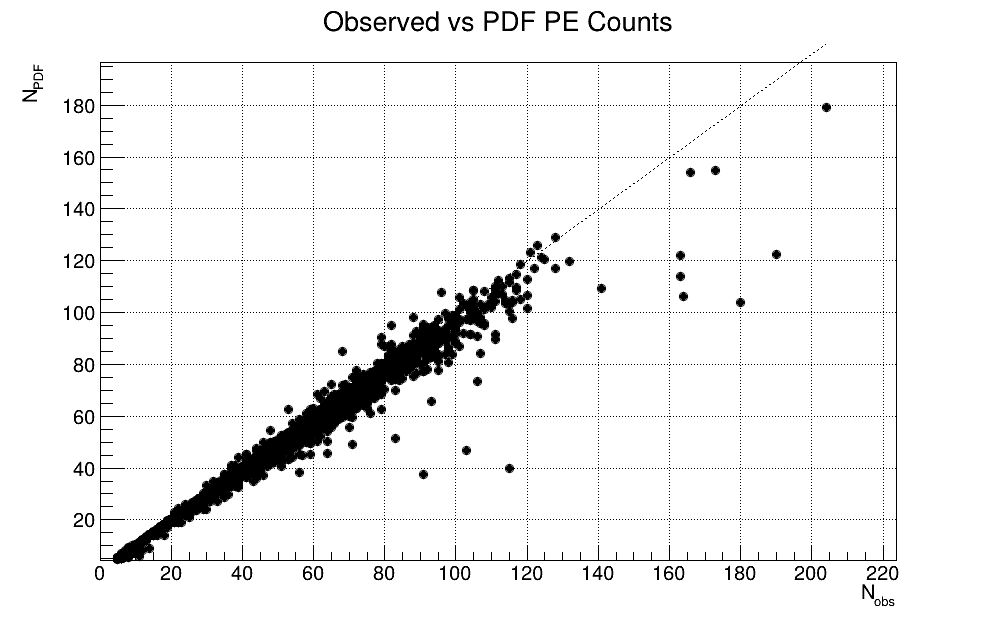
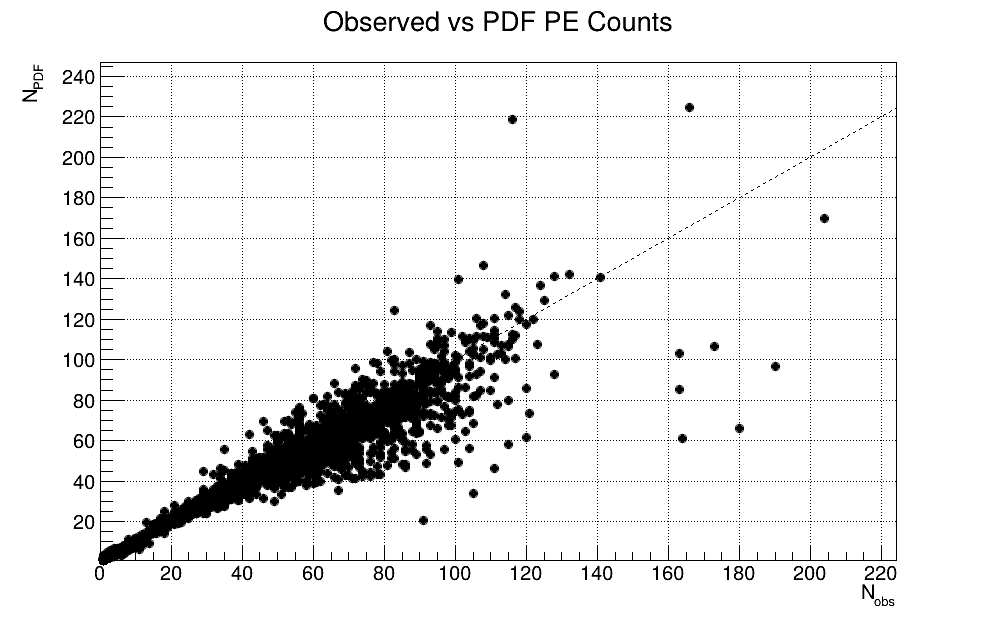
Change 1v2 alg to k select alg

diff --git a/src/FitCore.cpp b/src/FitCore.cpp
@@ -155,43 +155,63 @@ FitResult fit_n_pulses_bobyqa(
     return out;
 }
 
-static inline double score(double nll, int k, int T, bool useBIC) {
-    if (!useBIC) return nll;
-    return 2.0*nll + k*std::log(std::max(1, T));
+std::vector<std::vector<std::pair<double, double>>> 
+cluster_seeds(const std::vector<std::pair<double,double>>& s, int closeBins) {
+    std::vector<std::vector<std::pair<double,double>>> clusters;
+    if (s.empty()) return clusters;
+    std::vector<std::pair<double,double>> cur; cur.push_back(s[0]);
+    for (size_t i=1;i<s.size();++i){
+        if (std::fabs(s[i].first - s[i-1].first) <= closeBins) cur.push_back(s[i]);
+        else { clusters.push_back(cur); cur.clear(); cur.push_back(s[i]); }
+    }
+    clusters.push_back(cur);
+    return clusters;
 }
 
-FitResult model_select_1_vs_2(
-    const FitProblem& prob,
-    const std::vector<std::pair<double,double>>& seeds, // sorted
-    double peMin, double peMax, double dtMin, double dtMax,
-    const ModelSelectOptions& opt)
+static void init_k_uniform(
+    const std::vector<std::pair<double, double>>& cl, 
+    int k,
+    std::vector<double>& pe0,
+    std::vector<double>& dt0)
 {
-    FitResult best;
-
-    if (seeds.size() < 2) return best;
-    
-    double ddt = std::fabs(seeds[1].first - seeds[0].first);
-    if (ddt > opt.closeBins) return best; // too far
-
-    std::vector<double> pe2 = {seeds[0].second, seeds[1].second};
-    std::vector<double> dt2 = {seeds[0].first,  seeds[1].first};
-
-    double pe1 = pe2[0] + pe2[1];
-    double dt1 = seeds[0].first;
-
-    auto r1 = fit_n_pulses_bobyqa(prob, 1, {pe1}, {dt1}, peMin, peMax, dtMin, dtMax, 200);
-    auto r2 = fit_n_pulses_bobyqa(prob, 2, pe2, dt2, peMin, peMax, dtMin, dtMax, 200);
-
-    int T = prob.nTime;
-    if (r1.ok) {
-        double s = score(r1.nll, 2, T, opt.useBIC);
-        best = r1; best.nll = s;
+    double PE_sum = 0, dt_min = cl.front().first, dt_max = cl.back().first;
+    for (auto& p : cl) {
+        PE_sum += p.second;
+        dt_min = std::min(dt_min, p.first);
+        dt_max = std::max(dt_max, p.first);
     }
-    if (r2.ok) {
-        double s = score(r2.nll, 4, T, opt.useBIC);
-        if (!best.ok || s < best.nll) { best = r2; best.nll = s; }
-    }
+    pe0.assign(k, std::max(1.0, PE_sum / std::max(1, k)));
+    dt0.resize(k);
+    if (dt_max <= dt_min) { for (int i=0;i<k;++i) dt0[i] = dt_min; }
+    else { for (int i=0;i<k;++i) dt0[i] = dt_min + (dt_max - dt_min) * (i + 0.5) / k; }
+}
 
-    best.ok = (r1.ok || r2.ok);
-    return best;
+std::pair<FitResult,int> select_k_for_cluster(
+    const FitProblem& prob, const std::vector<std::pair<double,double>>& cl,
+    double peMin, double peMax, double dtMin, double dtMax,
+    const KSelectOptions& opt)
+{
+    FitResult best; int best_k = 0;
+    const int m = (int)cl.size();
+    for (int k=1;k<=m;++k){
+        std::vector<double> pe0, dt0; init_k_uniform(cl, k, pe0, dt0);
+        FitResult r = fit_n_pulses_bobyqa(prob, k, pe0, dt0, peMin, peMax, dtMin, dtMax, opt.maxEval);
+        if (!r.ok) continue;
+        double s = opt.useBIC ? (2.0*r.nll + (2*k)*std::log(std::max(1, prob.nTime))) : r.nll;
+        double s_best = best.ok ? (opt.useBIC ? (2.0*best.nll + (2*best_k)*std::log(std::max(1, prob.nTime))) : best.nll) : std::numeric_limits<double>::infinity();
+        if (!best.ok || s < s_best) { best=r; best_k=k; }
+    }
+    return {best, best_k};
+}
+
+FitResult fit_global_from_selections(
+    const FitProblem& prob,
+    const std::vector<double>& initPE,
+    const std::vector<double>& initDT,
+    double peMin, double peMax, double dtMin, double dtMax,
+    int maxEval)
+{
+    const int n = (int)initPE.size();
+    if (n==0) return {};
+    return fit_n_pulses_bobyqa(prob, n, initPE, initDT, peMin, peMax, dtMin, dtMax, maxEval);
 }

diff --git a/src/Pulse_Fitting.cpp b/src/Pulse_Fitting.cpp
@@ -355,9 +355,7 @@ bool Pulse_Fitting::fitPulses(const vector<int>& hist, const vector<double>& xCe
         }
     }
 
-    if (newPE.empty()) {
-        return false;
-    }
+    if (newPE.empty()) return false;
 
     FitProblem prob;
     prob.observed = &hist;
@@ -369,42 +367,41 @@ bool Pulse_Fitting::fitPulses(const vector<int>& hist, const vector<double>& xCe
     double dtMin = 0.0, dtMax = (double)xCenters.size() - 1.000001;
 
     std::vector<std::pair<double, double>> seeds;
+    seeds.reserve(newPE.size());
     for (size_t i=0;i<newPE.size();++i) seeds.emplace_back(newDT[i], newPE[i]);
-    std::sort(seeds.begin(), seeds.end());
+    std::sort(seeds.begin(), seeds.end(), [](auto a, auto b){ return a.first < b.first; });
 
-    ModelSelectOptions msopt;
-    msopt.closeBins = 10;
-    msopt.useBIC = false;
+    const int closeBins = 10;
+    auto clusters = cluster_seeds(seeds, closeBins);
+
+    KSelectOptions kopt;
+    kopt.useBIC = false;
+    kopt.maxEval = 200;
+
+    std::vector<double> chosenPEs, chosenDTs;
+    for (const auto& cl : clusters) {
+        if (cl.size() == 1) {
+            chosenPEs.push_back(std::max(1.0, cl[0].second));
+            chosenDTs.push_back(std::clamp(cl[0].first, dtMin, dtMax));
+            continue;
+        }
+        auto [best, kstart] = select_k_for_cluster(prob, cl, peMin, peMax, dtMin, dtMax, kopt);
+        if (best.ok) {
+            chosenPEs.insert(chosenPEs.end(), best.PEs.begin(), best.PEs.end());
+            chosenDTs.insert(chosenDTs.end(), best.DTs.begin(), best.DTs.end());
+        } else {
+            double pe_sum=0, dtw=0;
+            for (auto& p:cl){ pe_sum += p.second; dtw += p.first * p.second; }
+            chosenPEs.push_back(std::max(1.0, pe_sum));
+            chosenDTs.push_back(std::clamp(cl.front().first, dtMin, dtMax));
+        }
+    }
     
-    FitResult r;
-    bool tried_select = (seeds.size() >= 2) && (std::fabs(seeds[1].first - seeds[0].first) <= msopt.closeBins);
-    if (tried_select) r = model_select_1_vs_2(prob, seeds, peMin, peMax, dtMin, dtMax, msopt);
-    if (!r.ok) r = fit_n_pulses_bobyqa(prob, (int)newPE.size(), newPE, newDT, peMin, peMax, dtMin, dtMax, 200);
-    if (!r.ok) return false;
+    auto finalR = fit_global_from_selections(prob, chosenPEs, chosenDTs, peMin, peMax, dtMin, dtMax, 200);
+    if (!finalR.ok || finalR.PEs.empty()) return false;
 
-    auto prune = [&](const std::vector<double>& P, const std::vector<double>& D){
-        std::vector<double> p2, d2;
-        for (size_t i=0;i<P.size();++i) if (P[i] >= 5.0) { p2.push_back(P[i]); d2.push_back(D[i]); }
-        return std::make_pair(std::move(p2), std::move(d2));
-    };
-
-    {
-        auto pr = prune(r.PEs, r.DTs);
-        if (pr.first.empty()) return false;
-        r.PEs.swap(pr.first); r.DTs.swap(pr.second);
-    }
-
-    for (int it=0; it<3; ++it) {
-        auto r2 = fit_n_pulses_bobyqa(prob, (int)r.PEs.size(), r.PEs, r.DTs, peMin, peMax, dtMin, dtMax, 200);
-        if (!r2.ok) break;
-        auto pr2 = prune(r2.PEs, r2.DTs);
-        if ((int)pr2.first.size() == (int)r.PEs.size()) { r = r2; break; } // 收斂
-        if (pr2.first.empty()) return false;
-        r.PEs.swap(pr2.first); r.DTs.swap(pr2.second);
-    }
-
-    fittedPEs = std::move(r.PEs);
-    fittedDTs = std::move(r.DTs);
+    fittedPEs = finalR.PEs;
+    fittedDTs = finalR.DTs;
 
     vector<double> expected(hist.size(), 0.0);
     if (fixedExpected) {

diff --git a/include/FitCore.h b/include/FitCore.h
@@ -26,17 +26,27 @@ FitResult fit_n_pulses_bobyqa(
     const std::vector<double>& initDT,
     double peMin, double peMax,
     double dtMin, double dtMax,
-    int maxEval = 300
+    int maxEval = 200
 );
 
-struct ModelSelectOptions {
-    int closeBins = 10;
+struct KSelectOptions {
     bool useBIC = false;
+    int maxEval = 200;
 };
 
-FitResult model_select_1_vs_2(
+std::vector<std::vector<std::pair<double, double>>> cluster_seeds(const std::vector<std::pair<double, double>>& seeds_sorted_by_dt, int closeBins);
+
+std::pair<FitResult,int> select_k_for_cluster(
     const FitProblem& prob,
-    const std::vector<std::pair<double, double>>& seeds_sorted_by_dt,
+    const std::vector<std::pair<double,double>>& cluster,
     double peMin, double peMax, double dtMin, double dtMax,
-    const ModelSelectOptions& opt
-); 
+    const KSelectOptions& opt
+);
+
+FitResult fit_global_from_selections(
+    const FitProblem& prob,
+    const std::vector<double>& initPE,
+    const std::vector<double>& initDT,
+    double peMin, double peMax, double dtMin, double dtMax,
+    int maxEval = 300
+);
